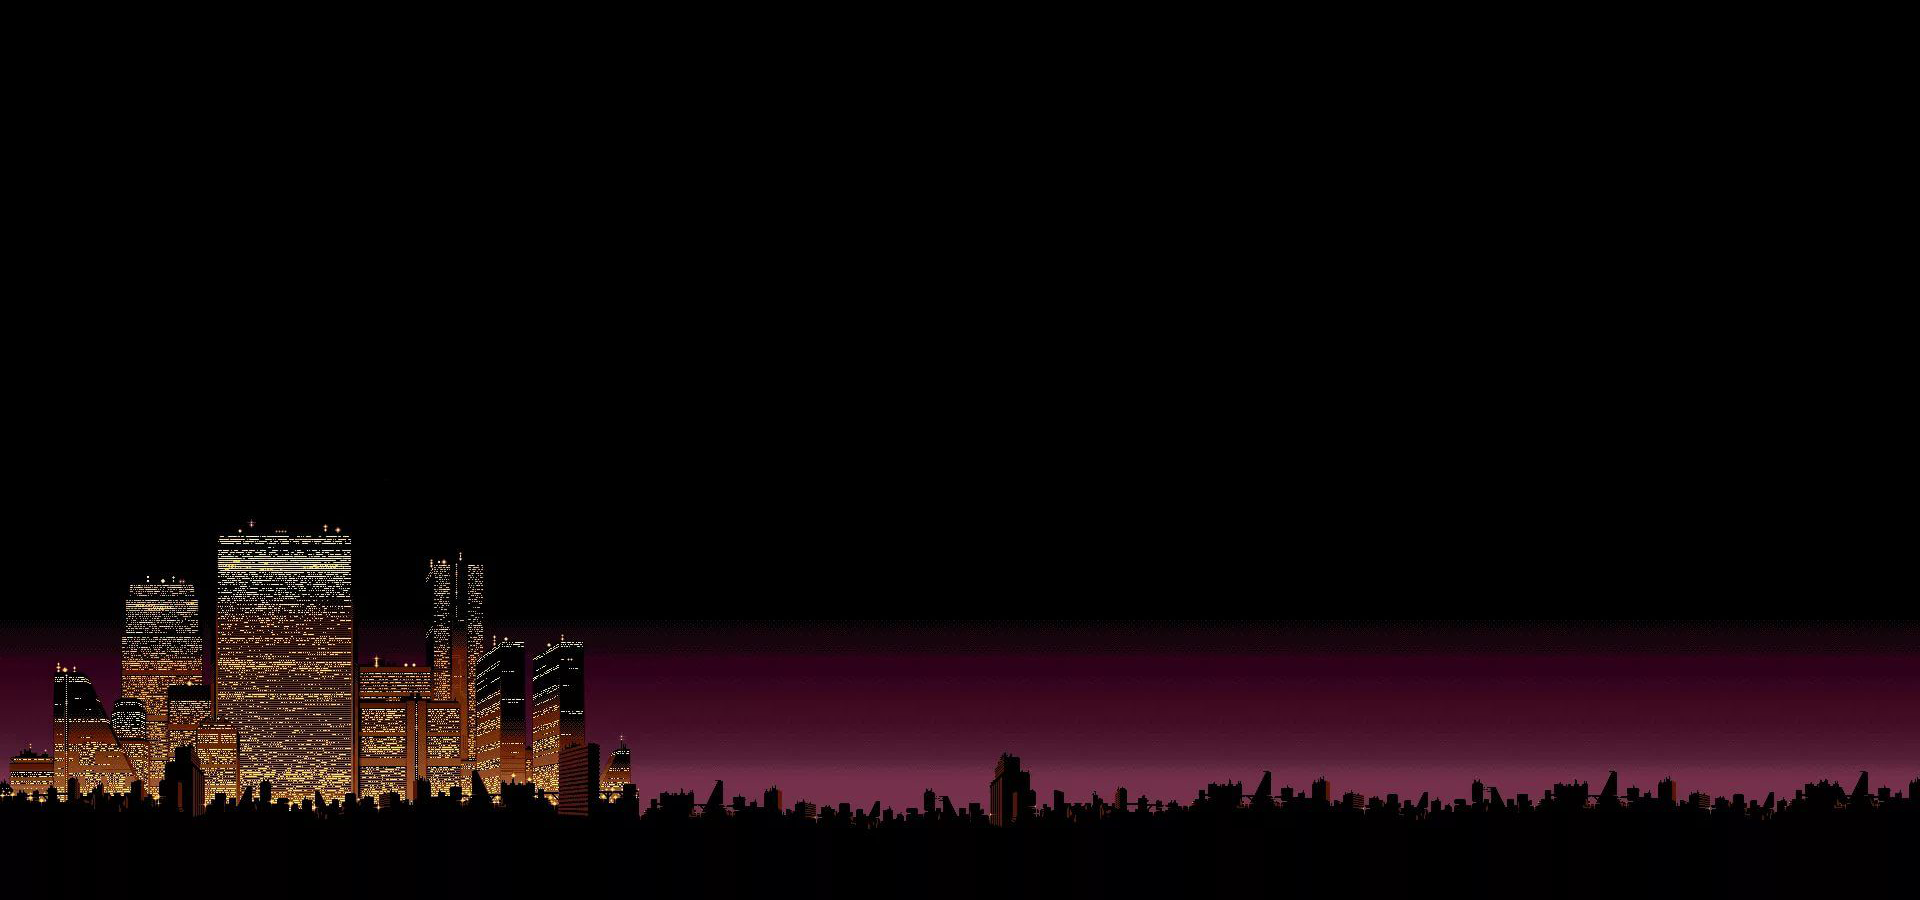
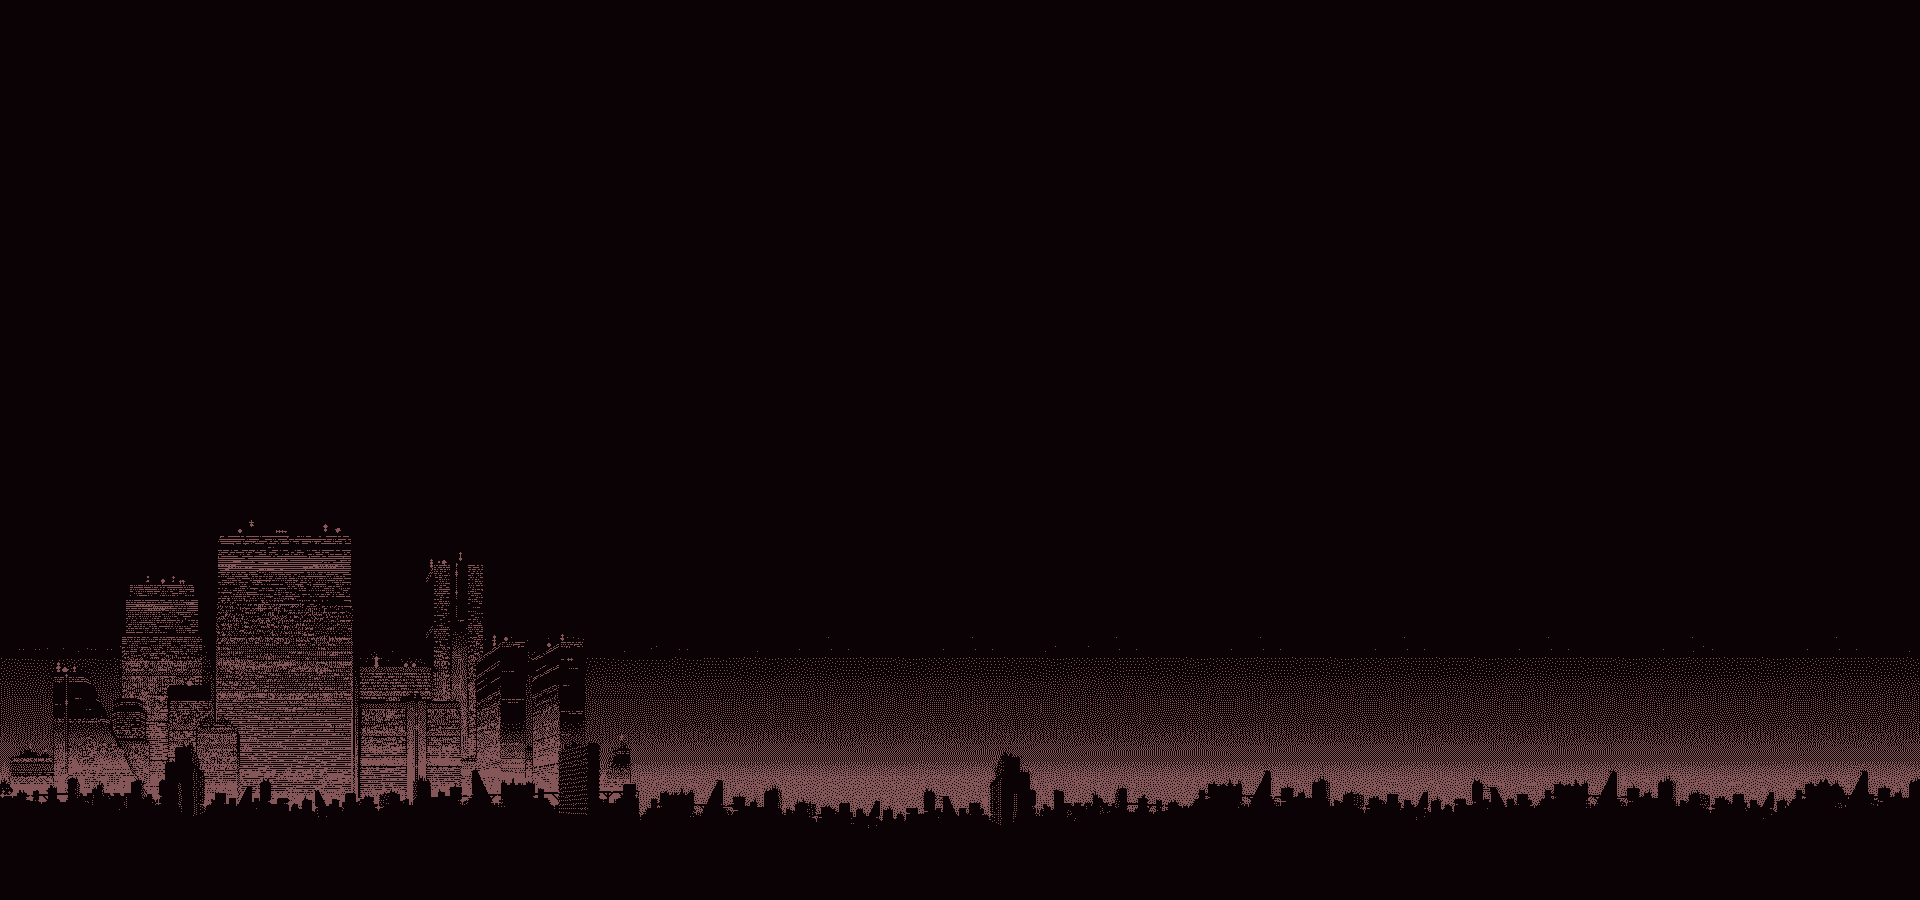
Внёс последние изменения перед защитой проекта

Changed region(s): [[0.0, 0.5911, 1.0, 0.9333]]

diff --git a/js/switch2.js b/js/switch2.js
@@ -1,6 +1,4 @@
 document.addEventListener("DOMContentLoaded", () => {
-    localStorage.setItem('theme', 'dark');
-
     window.addEventListener('load', init);
     function init() {
         document.getElementById("newGame").addEventListener("click", switchToNewGame);
@@ -84,21 +82,6 @@ document.addEventListener("DOMContentLoaded", () => {
         setTimeout(settings, 1000);
     }
 
-    function editForm() {
-        localStorage.setItem("scaleValue", inp.value)
-        console.log(2222);
-    }
-
-    function switchTheme() {
-        if (localStorage.getItem('theme') == "dark") {
-            localStorage.setItem('theme', 'light');
-            document.documentElement.removeAttribute('data-theme');
-        } else {
-            localStorage.setItem('theme', 'dark');
-            document.documentElement.setAttribute('data-theme', "dark");
-        }
-    }
-
     function settings() {
         document.body.removeChild(document.getElementById('container'));
         //создание контейнера
@@ -106,31 +89,20 @@ document.addEventListener("DOMContentLoaded", () => {
         child.setAttribute('id', 'container-settings');
         child.classList.add('notMenu');
 
-        /* создание кнопки скалирования */
+        /* создание кнопки видео */
         let button1 = document.createElement('div');
         button1.setAttribute('id', 'sett-button1');
-        let form = document.createElement('form');
-        form.innerHTML = "Выберите масштаб" + "<br>" + 1
-        let inp = document.createElement('input');
-        inp.setAttribute('type', 'range');
-        inp.setAttribute('min', '1');
-        inp.setAttribute('max', '10');
-        inp.setAttribute('step', '1');
-        inp.setAttribute('value', '2');
-        inp.addEventListener('change', editForm);
-        form.appendChild(inp);
-
-        form.innerHTML += 10;
-
-        button1.appendChild(form);
+        let but1 = document.createElement('button');
+        but1.setAttribute('id', 'video');
+        but1.textContent = 'Video';
+        button1.appendChild(but1);
 
         /* создание кнопки аудио */
         let button2 = document.createElement('div');
         button2.setAttribute('id', 'sett-button2');
         let but2 = document.createElement('button');
         but2.setAttribute('id', 'audio');
-        but2.textContent = 'Смена темы';
-        but2.addEventListener('click', switchTheme);
+        but2.textContent = 'Audio';
         button2.appendChild(but2);
 
         /* создание кнопки back */

diff --git a/css/style.css b/css/style.css
@@ -1,3 +1,34 @@
+:root {
+    #container {
+        background-image: url(../img/bg-light.png);
+    }
+
+    #container-score {
+        background-image: url(../img/bg-light.png);
+    }
+
+    #container-settings {
+        background-image: url(../img/bg-light.png);
+    }
+}
+
+[data-theme="dark"] {
+
+    #container {
+        background-image: url(../img/bg.png);
+    }
+
+    #container-score {
+        background-image: url(../img/bg.png);
+    }
+
+    #container-settings {
+        background-image: url(../img/bg.png);
+    }
+
+}
+
+
 body {
     position: absolute;
     background-color: black;
@@ -22,6 +53,21 @@ canvas {
 a {
     border: 2px solid black;
     text-align: center;
+}
+
+#container-score {
+    background-image: url(../img/bg.png);
+    width: 100%;
+    height: 100%;
+    margin: 0;
+    background-color: black;
+    position: absolute;
+    top: 0px;
+    left: 0px;
+    display: flex;
+    flex-direction: column;
+    justify-content: center;
+    align-items: center;
 }
 
 #container {
@@ -155,6 +201,13 @@ a {
         height: 300px;
         background-image: url(../img/gameLogo.png);
     }
+
+    form {
+        background-color: red;
+        width: 500px;
+        height: 70px;
+        color: white;
+    }
 }
 
 @media (width < 1000px) {
@@ -169,5 +222,12 @@ a {
         width: 569px;
         height: 203px;
         background-image: url(../img/gameLogo-mini.png);
+    }
+
+    form {
+        background-color: red;
+        width: 300px;
+        height: 70px;
+        color: white;
     }
 }

diff --git a/js/tutorial.js b/js/tutorial.js
@@ -1,3 +1,9 @@
+let data;
+fetch('data/scores.json')
+    .then(response => response.json())
+    .then(jsonData => data = jsonData);
+console.log(data);
+
 const SCALE = 2;
 const FRAME_WIDTH = 50;
 const FRAME_HEIGHT = 45;
@@ -26,7 +32,7 @@ let isPaused = false;
 let score = 0;
 let combo = 0;
 let comboTimer = COMBO_TIME;
-let cntEnemies = Math.floor(Math.random() * (8 - 1 + 1)) + 4;
+let cntEnemies = Math.floor(Math.random() * (2 - 1 + 1)) + 1;
 let cntKills = 0;
 
 class entity {
@@ -438,8 +444,23 @@ function gameLoop() {
 }
 
 function winGame() {
-    localStorage.setItem("themeColor", 'light');
-    window.location.href = "../scoreWindow.html";
+
+    if (data == 'undefined') {
+        console.log("Problem with data");
+    } else if (data != 'undefined') {
+
+    }
+
+    let array = [];
+    data = localStorage.getItem('scoreStorage');
+    array = data;
+    array.push([score]);
+
+    localStorage.setItem('scoreStorage', array);
+
+    console.log(array);
+
+    window.location.href = "../index.html";
 }
 
 function restart() {
@@ -571,8 +592,3 @@ function attackOfEnemyBatonCollision(enemy, frameCount) {
         attackOfEnemyBatonCollision(enemy, frameCount);
     }, FRAME_SPEED + 11);
 }
-/*
-cont.
-menu.
-exit.
-    */

diff --git a/scoreWindow.html b/scoreWindow.html
@@ -13,8 +13,6 @@
 
     <div id="container-score">
 
-
-        <button id="quit">Выход</button>
     </div>
 
     <video id="myaudio" controls="" loop="" autoplay="" preload="auto" hidden>
@@ -29,7 +27,7 @@
         <div class="preloader_block animation"></div>
     </div>
 
-    <script src="js/switch.js"></script>
+    <script src="js/switch2.js"></script>
 
 </body>
 
